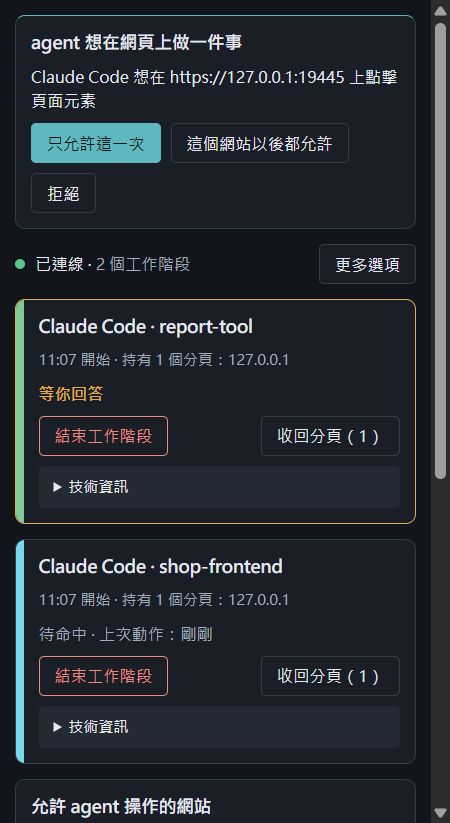
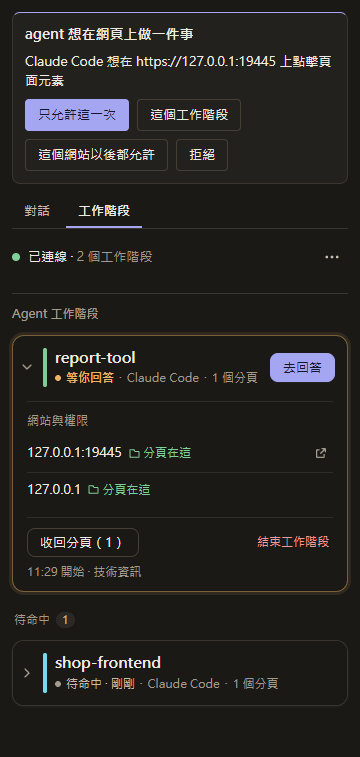
Hallpass 0.25.1

diff --git a/tests/e2e/packaged/agent-panel-shots.spec.ts b/tests/e2e/packaged/agent-panel-shots.spec.ts
@@ -173,6 +173,9 @@ test.describe("agent panel screenshots", () => {
         const sites = settingsPageDriver(settings.page, locale);
         await sites.setAppearance({ language: locale, theme: "light" });
         await sites.goto("#sites");
+        // #78: the notice of the mode change above was written in the language the page had then and stays until
+        // dismissed; the picture is of the sites, so it is closed first.
+        await sites.evaluateSettings("document.querySelectorAll('.settings-page .toast-close').forEach((b) => b.click())");
         const lowerName = `016-panel-${locale}-sites.png`;
         const lowerSaved = test.info().outputPath(lowerName);
         await sites.screenshot(lowerSaved);
@@ -185,6 +188,9 @@ test.describe("agent panel screenshots", () => {
           .soft(leak, `${lowerName} shows ${JSON.stringify(listPath)}; launch the browser with a neutral LOCALAPPDATA (e.g. C:\\hallpass-demo) and retake. Kept only at ${lowerSaved}`)
           .toBe(false);
         if (!leak) copyFileSync(lowerSaved, join(MEDIA, lowerName));
+        // #78: the owner's language and theme outrank the browser's (024 D-024-20), so the choice made for this
+        // shot is handed back before the next locale; left pinned, the panel stays in this language and theme.
+        await sites.setAppearance({ language: "system", theme: "system" });
 
         // 036 R-538: Answer answers nothing and sends nothing; it moves focus to the question's card. Focus is
         // taken off the card first, so the check is of the press and not of where focus already was.
@@ -209,8 +215,9 @@ test.describe("agent panel screenshots", () => {
       await ok(alpha, "tabs_close", { tabId: tabA });
       await ok(beta, "tabs_close", { tabId: tabB });
       openTabs.length = 0;
-      // The `ask` row was this run's own; forget it for the next gate.
-      await settings.revokeSite(SITE_ASK);
+      // #78: no `ask` row to forget. `ask` is the default mode and, since 024 dropped the diagnostics grant from
+      // this composition, nothing is stored for that site: its row is listed only while its tab is open, and the
+      // tabs were closed just above.
       await settings.setAppearance({ language: "system", theme: "system" });
     } finally {
       for (const tabId of openTabs) {

diff --git a/tests/contract/hallpass-identity.contract.test.ts b/tests/contract/hallpass-identity.contract.test.ts
@@ -52,9 +52,9 @@ describe("T239 the product's identity is Hallpass", () => {
     expect(zhMessages["extActionTitle.agent"]).toContain("Hallpass");
   });
 
-  it("advertises the MCP server as hallpass at version 0.25.0, the same version the extension carries", () => {
+  it("advertises the MCP server as hallpass at version 0.25.1, the same version the extension carries", () => {
     expect(SERVER_NAME).toBe("hallpass");
-    expect(SERVER_VERSION).toBe("0.25.0");
+    expect(SERVER_VERSION).toBe("0.25.1");
     expect(AGENT_EXTENSION_VERSION).toBe(SERVER_VERSION);
   });
 

diff --git a/tests/contract/qa-package.contract.test.ts b/tests/contract/qa-package.contract.test.ts
@@ -210,7 +210,7 @@ describe("QA package 0.2.0 zip (only when a full run has produced one)", () => {
   });
 
   it.skipIf(!built)("stamps one version into the zip name, VERSION and the packed manifest", () => {
-    expect(AGENT_EXTENSION_VERSION).toBe("0.25.0");
+    expect(AGENT_EXTENSION_VERSION).toBe("0.25.1");
     expect(readZipEntry(zipPath, "VERSION").trim()).toBe(AGENT_EXTENSION_VERSION);
     const manifest = JSON.parse(readZipEntry(zipPath, "extension/manifest.json")) as { version?: string };
     expect(manifest.version).toBe(AGENT_EXTENSION_VERSION);

diff --git a/tests/contract/agent-tools-008.contract.test.ts b/tests/contract/agent-tools-008.contract.test.ts
@@ -226,7 +226,7 @@ describe("T208 the agent artefact's permission and version", () => {
   });
 
   it("writes the agent artefact's version once, and the host answers with the same one", () => {
-    expect(AGENT_EXTENSION_VERSION).toBe("0.25.0");
+    expect(AGENT_EXTENSION_VERSION).toBe("0.25.1");
     const agent = createManifest(resolveBuildConfig("agent"));
     expect(agent.version).toBe(AGENT_EXTENSION_VERSION);
     // FR-122: the extension and the host it talks to are one release. Two literals that may not

diff --git a/packages/agent-host/src/tool-offering.ts b/packages/agent-host/src/tool-offering.ts
@@ -16,7 +16,7 @@ export const SERVER_NAME = "hallpass";
  * (`AGENT_EXTENSION_VERSION`). A contract test pins the two together - an extension and the host it
  * talks to are one release, and a client asking who it is talking to must not be told otherwise.
  */
-export const SERVER_VERSION = "0.25.0";
+export const SERVER_VERSION = "0.25.1";
 
 /**
  * The tools this host will actually carry to a worker, as opposed to the tools the contract

diff --git a/apps/extension/src/build-config.ts b/apps/extension/src/build-config.ts
@@ -183,7 +183,7 @@ const AGENT_CONTENT_SCRIPTS = [
  * takes its name from the manifest, and the MCP host answers with the same literal so a client that
  * asks who it is talking to cannot be told a different release than the one loaded.
  */
-export const AGENT_EXTENSION_VERSION = "0.25.0";
+export const AGENT_EXTENSION_VERSION = "0.25.1";
 
 export function createManifest(
   config: ExtensionBuildConfig,

diff --git a/CHANGELOG.zh-TW.md b/CHANGELOG.zh-TW.md
@@ -3,6 +3,10 @@
 每一版 Hallpass 改了什麼,新的在上面。英文完整版見 [CHANGELOG.md](CHANGELOG.md);安裝包在 [releases](https://github.com/norton77930/hallpass/releases)。
 升級方式每一版都一樣(除非該節另有說明):重新安裝主機(zip 裡的 `install.ps1`,或從原始碼 `npm run agent-host:install`),再到 `chrome://extensions` 重新載入擴充功能。
 
+## 0.25.1 — 2026-11-17
+
+- **截圖更新(#78)**:說明文件裡的側邊欄和設定頁截圖換成目前的樣子：暖色配色和新的工作階段卡片，英文和繁體中文、淺色和深色都有。負責拍這些截圖的測試又能切到第二種語言了。擴充功能和輔助程式都沒有改。
+
 ## 0.25.0 — 2026-11-17
 
 - **更溫暖、更安靜的側邊欄**:側邊欄和設定頁從冷灰色改成暖色：淺色模式是米白紙感的底，深色模式是暖炭灰的底。按鈕、選中的分頁和焦點框維持原本的靛藍，所有文字的對比度不低於以前，工作階段的顏色仍對應 Chrome 分頁群組。只改了顏色，版面、文字和行為都和以前一樣。

diff --git a/CHANGELOG.md b/CHANGELOG.md
@@ -5,6 +5,13 @@ What each Hallpass release changed, newest first. Every release is on the
 the same every time unless a section says otherwise: reinstall the host (`install.ps1` from the
 zip, or `npm run agent-host:install` from source) and reload the extension.
 
+## 0.25.1 — 2026-11-17
+
+- **Up-to-date screenshots (#78).** The side-panel and settings screenshots in the README's media now
+  show the current panel: the warm palette and the new session cards, in English and Traditional
+  Chinese, light and dark. The test run that takes them reaches its second language again. Nothing in
+  the extension or the helper changed.
+
 ## 0.25.0 — 2026-11-17
 
 - **A warmer, calmer panel.** The side panel and the settings page move from cool grey to a warm
